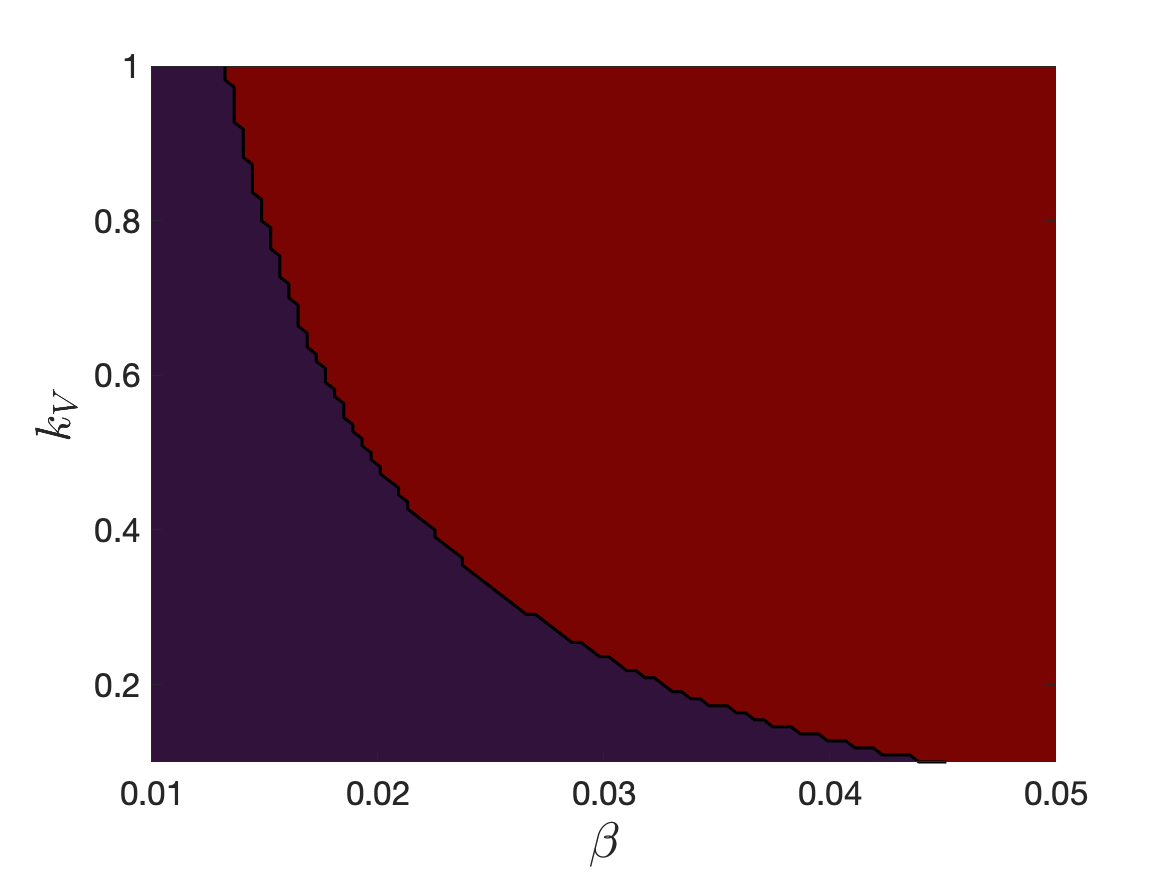
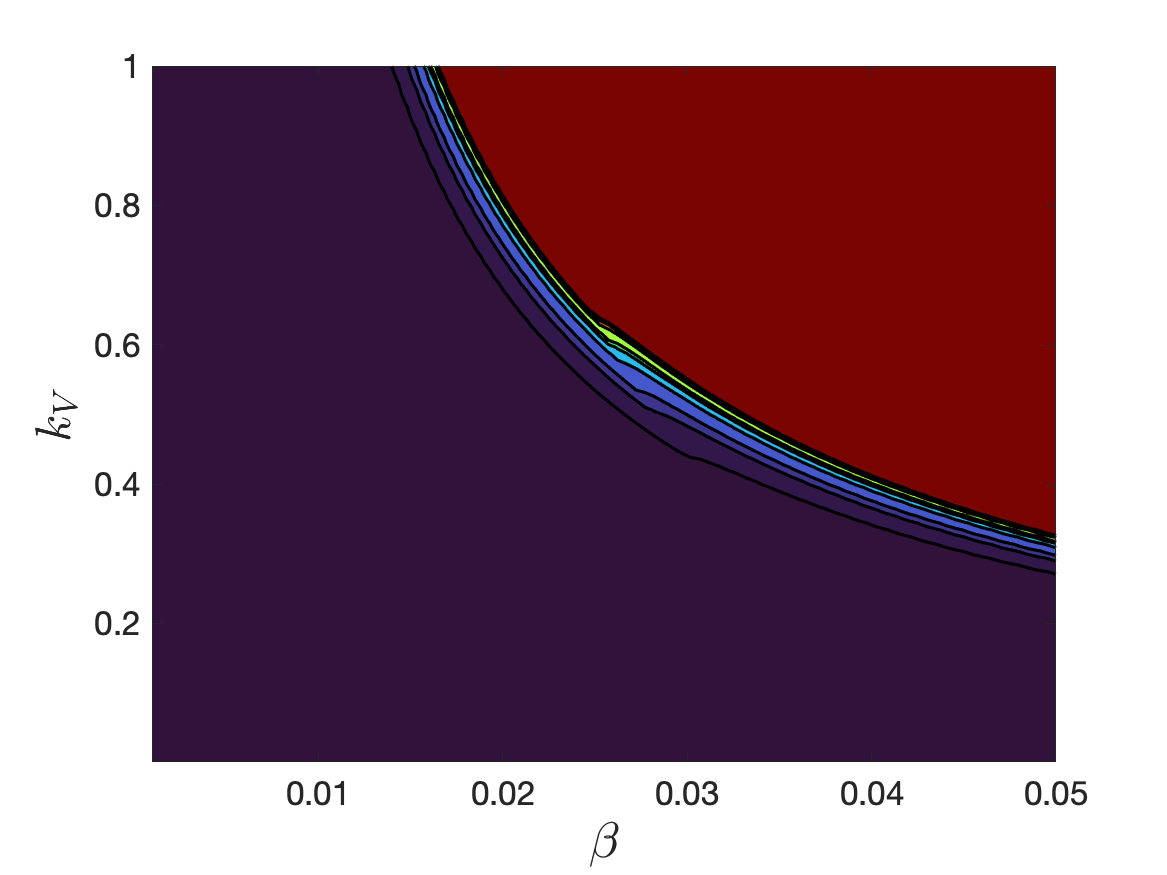
beta_k starting at 0

diff --git a/betak.m b/betak.m
@@ -4,10 +4,10 @@ params = struct();
 options = ddeset('AbsTol', 1e-9, 'RelTol', 1e-9);
 
 % contour plot for beta, k_V
-params.tspan = [0, 300];
+params.tspan = [0, 500];
 
 beta_vals = linspace(10^(-3), 5*10^(-2), 100);
-k_vals = linspace(0.1, 1, 100);
+k_vals = linspace(10^(-3), 1, 100);
 
 param_contour_plot("full", "default_params_full.mat", params, @ddefullhist, options, beta_vals, k_vals, 1, 'default_betak');
 
@@ -20,7 +20,7 @@ options = ddeset('AbsTol', 1e-9, 'RelTol', 1e-9);
 params.tspan = [0, 300];
 
 beta_vals = linspace(10^(-3), 5*10^(-2), 100);
-k_vals = linspace(0.1, 1, 100);
+k_vals = linspace(10^(-3), 1, 100);
 
 param_contour_plot("iis", "default_params_full.mat", params, @ddeIIShist, options, beta_vals, k_vals, 1, 'iis_betak');
 
@@ -37,7 +37,7 @@ params.k_i = 0;
 params.tspan = [0, 300];
 
 beta_vals = linspace(10^(-3), 5*10^(-2), 100);
-k_vals = linspace(0.1, 1, 100);
+k_vals = linspace(10^(-3), 1, 100);
 
 param_contour_plot("iis", "default_params_full.mat", params, @ddeIIShist, options, beta_vals, k_vals, 1, 'viral_betak');
 
